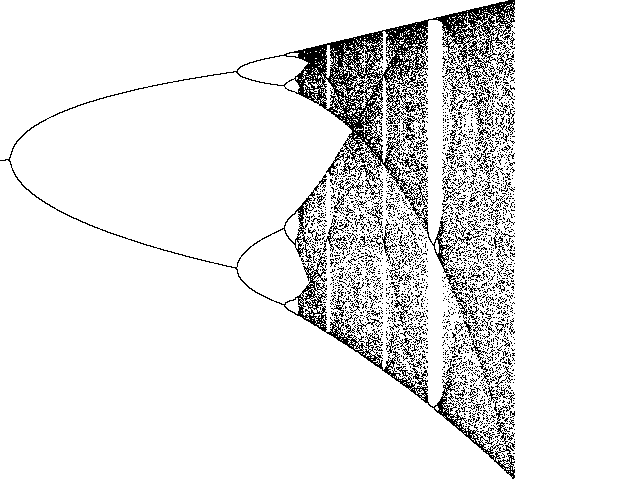
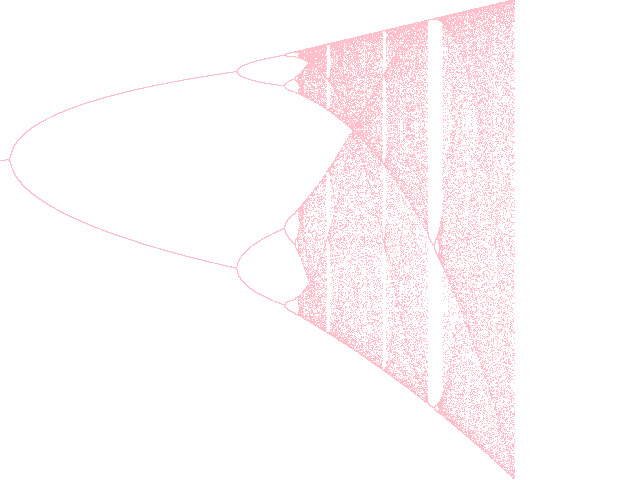
Logistics Mountains
Updated version

diff --git a/Logistics Mountains/mountain.py b/Logistics Mountains/mountain.py
@@ -22,7 +22,7 @@ def mountain(seed, n_skip, n_iter, step = 0.0001, r_min = 0, scaling = 0):
     ax = plt.Axes(fig, [0., 0., 1., 1.])
     ax.set_axis_off()
     fig.add_axes(ax)
-    ax.plot(R, X, ls='', marker=',', color="black")
+    ax.plot(R, X, ls='', marker=',', color="pink")
     plt.ylim(0, 1)
     plt.xlim(r_min, 4.25)
     plt.show()
